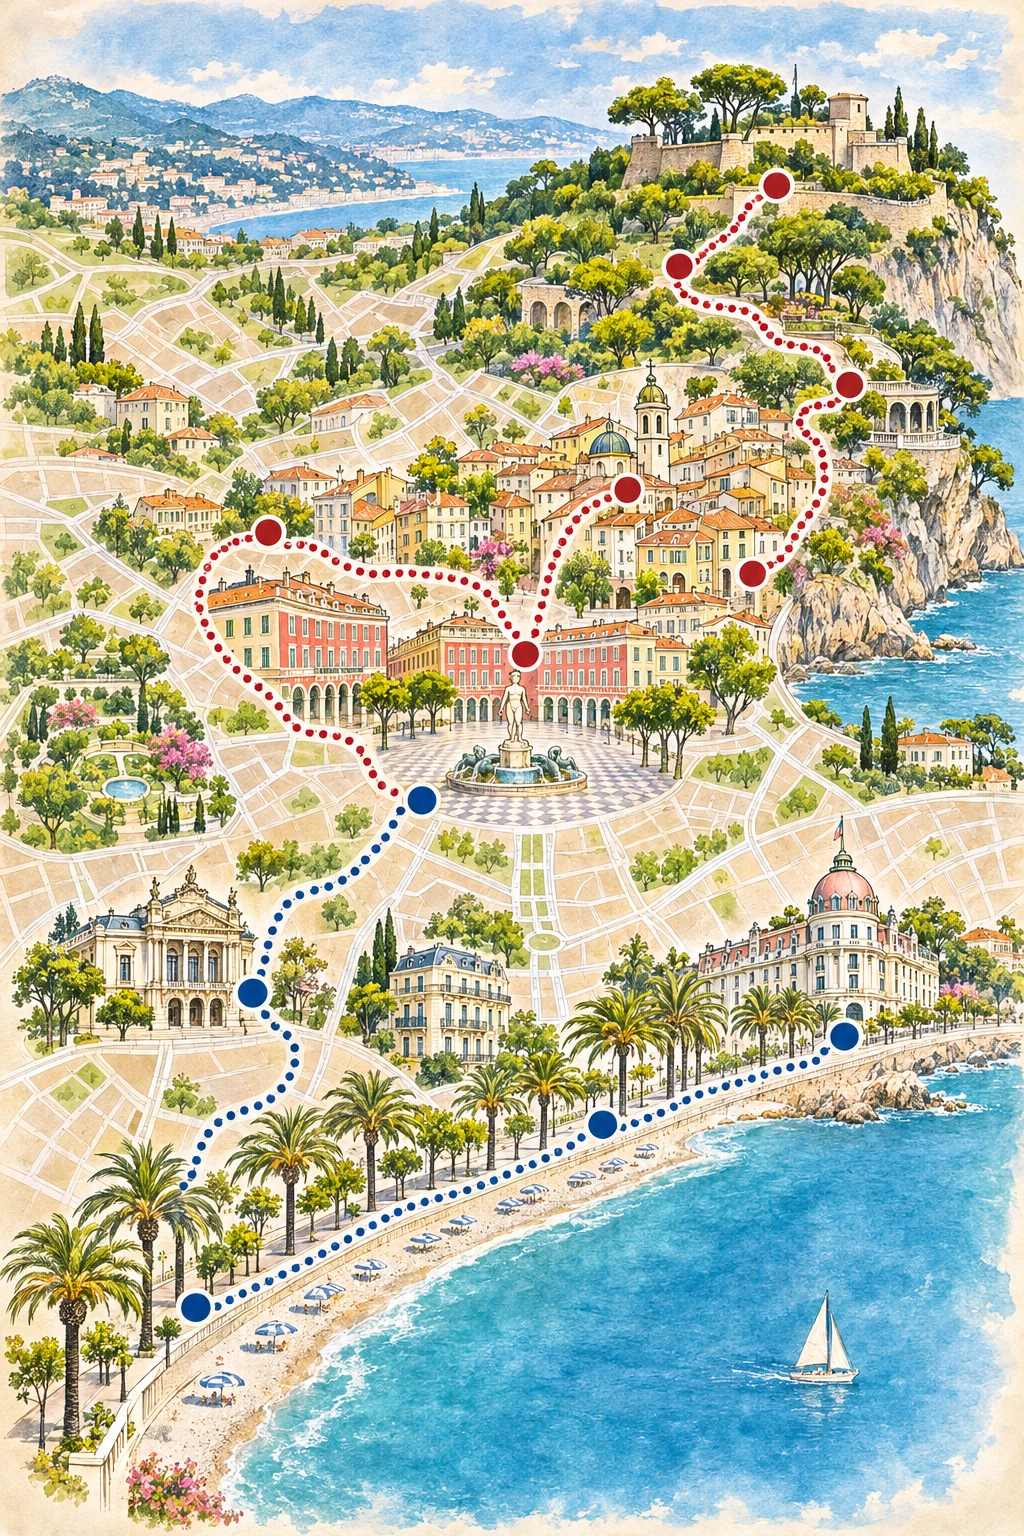
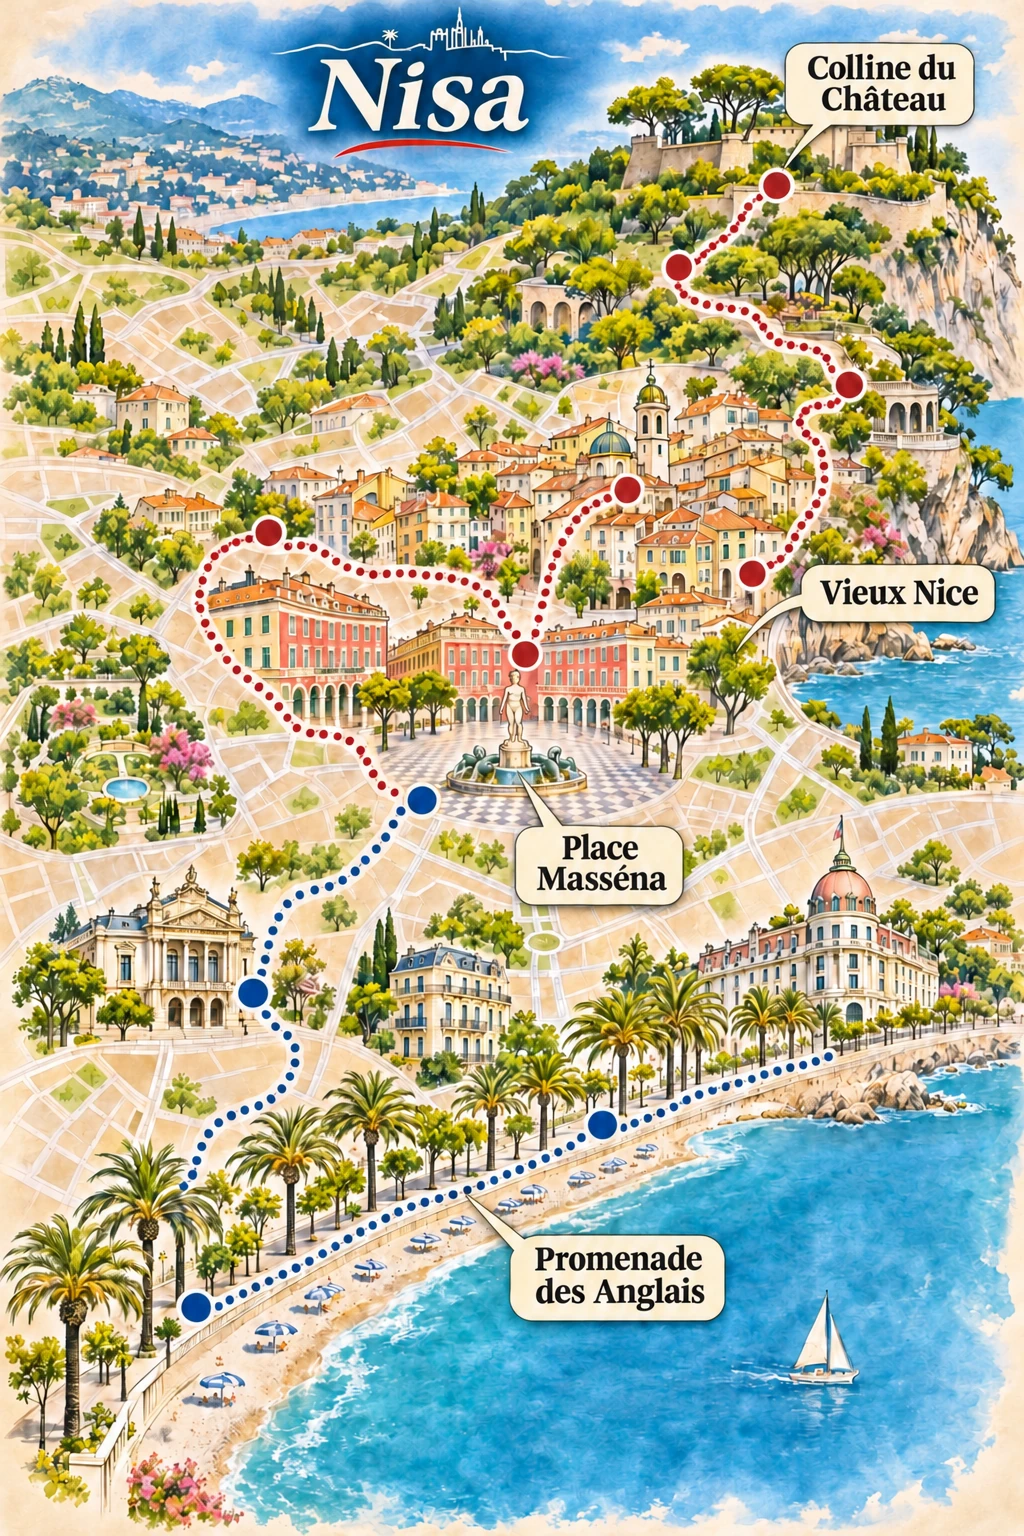
Label Nice guide map

diff --git a/ILUSTRATII.md b/ILUSTRATII.md
@@ -41,9 +41,10 @@ Se adaugă numele obiectivelor direct pe hărțile existente, în stilul aprobat
 - Palermo
 - Pisa și Florența
 - Valencia
+- Nisa
 
 Harta originală pentru Praga avea deja etichete. Celelalte orașe din `assets/guides-prague-style/` necesită în continuare verificare și prelucrare. Actualizează această listă în același commit cu fiecare lot nou.
 
-Ilustrațiile fără etichete sunt păstrate în istoricul Git: pentru Roma și Barcelona folosește fișierul de la commitul `14f016a`, iar pentru Paris, Londra, Lisabona, Berlin și Bruxelles de la `508e691`. Pentru Budapesta, Atena, Veneția, Amsterdam, Viena, Milano, Madrid, Bologna, Lyon, Porto, Varșovia, Copenhaga, Edinburgh, Bruges, Köln, Dublin, Cracovia, Stockholm, Chișinău, Bratislava, Sofia, Oslo, Bari, Napoli, Sevilla, Istanbul, Dubrovnik, Palermo, Pisa, Florența și Valencia se pot folosi originalele de la `48efdd5`. Copii locale sunt în `/workspace/guide-batch/original-illustrations` când acel director este disponibil. Păstrează imaginile originale pentru quiz.
+Ilustrațiile fără etichete sunt păstrate în istoricul Git: pentru Roma și Barcelona folosește fișierul de la commitul `14f016a`, iar pentru Paris, Londra, Lisabona, Berlin și Bruxelles de la `508e691`. Pentru Budapesta, Atena, Veneția, Amsterdam, Viena, Milano, Madrid, Bologna, Lyon, Porto, Varșovia, Copenhaga, Edinburgh, Bruges, Köln, Dublin, Cracovia, Stockholm, Chișinău, Bratislava, Sofia, Oslo, Bari, Napoli, Sevilla, Istanbul, Dubrovnik, Palermo, Pisa, Florența, Valencia și Nisa se pot folosi originalele de la `48efdd5`. Copii locale sunt în `/workspace/guide-batch/original-illustrations` când acel director este disponibil. Păstrează imaginile originale pentru quiz.
 
 Nu modifica funcționalitatea de căutare a zborurilor în cadrul acestei activități.
